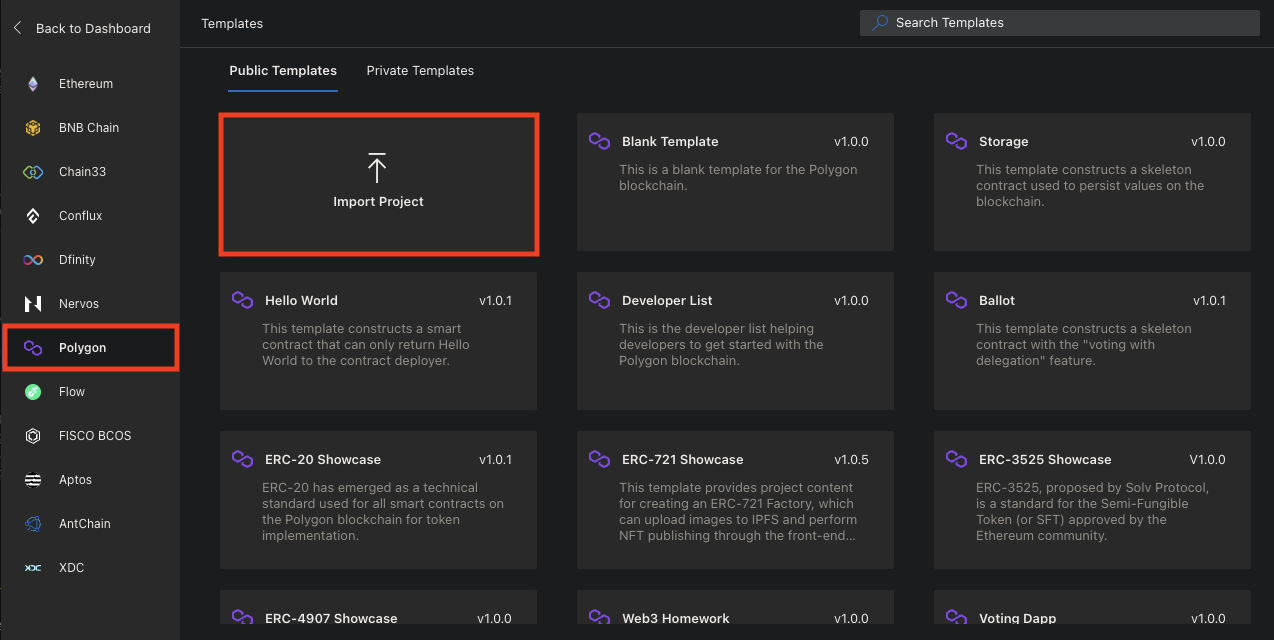
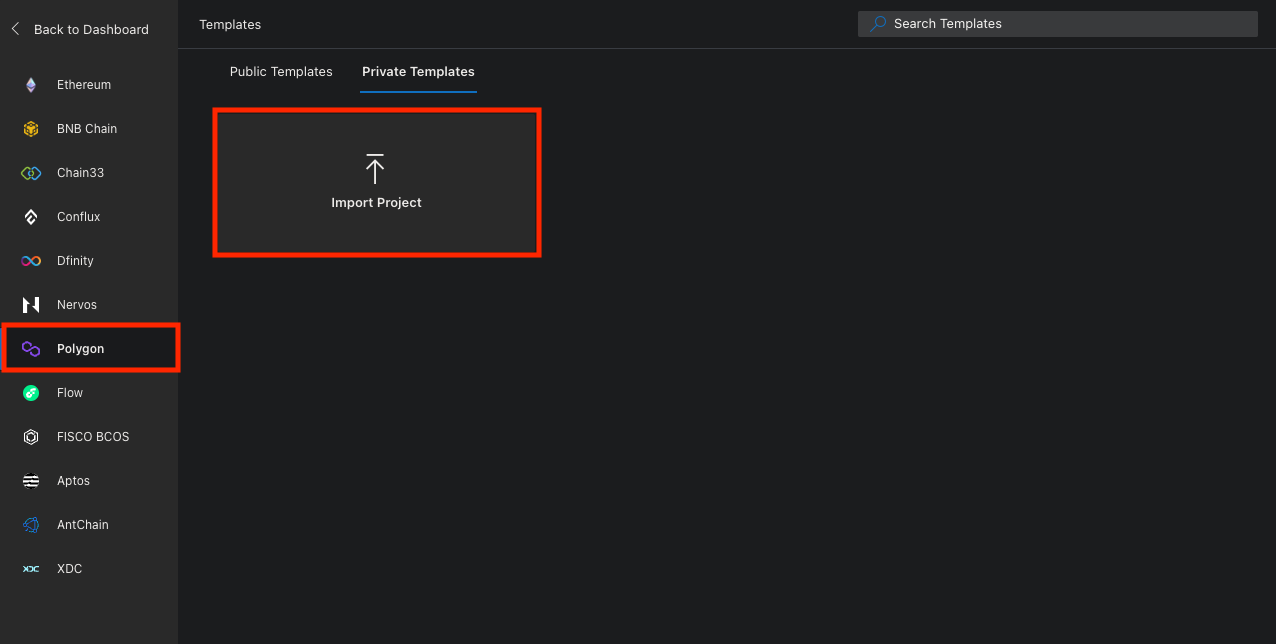
chore: update README

diff --git a/README.ja.md b/README.ja.md
@@ -26,7 +26,7 @@
 
 ![New Project](/images/README/3.png)
 
-「Polygon」を選択し、「Import Project」をクリックします。
+「Polygon」を選択し、`Private Template`の「Import Project」をクリックします。
 
 ![Import Project](/images/README/4.png)
 

diff --git a/README.md b/README.md
@@ -26,7 +26,7 @@ Click on "New Project".
 
 ![New Project](/images/README/3.png)
 
-Select "Polygon" and click on "Import Project".
+Select "Polygon" and click on "Import Project" under `Private Template`.
 
 ![Import Project](/images/README/4.png)
 
